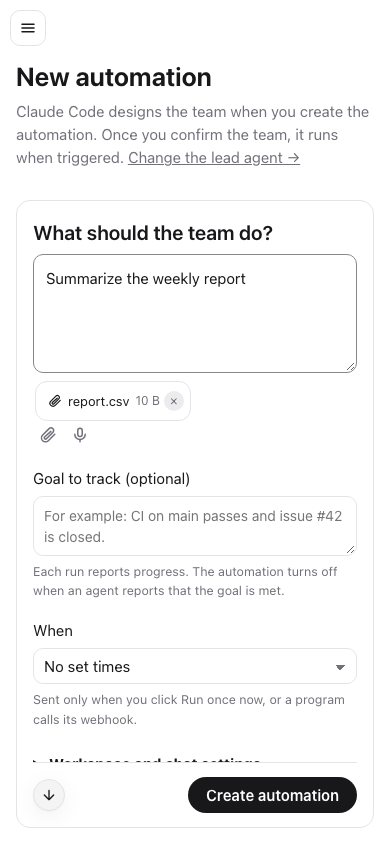
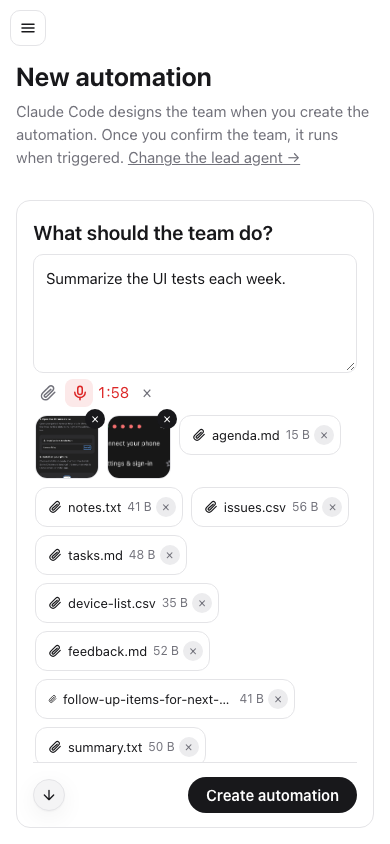
Keep attachment and microphone buttons in place in New chat and New automation (#148)
* Keep attachment and microphone buttons in place when creating a chat or automation

- Show files below the controls and keep the microphone in its original slot through recording and transcription.
- Measure both buttons on desktop and phone layouts and check the voice installation badge in all three inputs.
- Refresh the English and Traditional Chinese guides, screenshots and end-to-end test descriptions.

* Show both creation forms with ten attachments and a nearly full recording

- Capture the desktop and phone layouts after 118 seconds of recording with ten files, including image thumbnails.
- Update the guides to describe attachment wrapping and automatic transcription at the two-minute limit.

diff --git a/e2e/specs/voice.spec.ts b/e2e/specs/voice.spec.ts
@@ -1,6 +1,8 @@
-import type { Page } from '@playwright/test';
+import type { Locator, Page } from '@playwright/test';
 import type { VoiceJobView, VoiceStatus } from '../../src/shared/types';
 import { expect, test } from '../fixtures';
+import { en } from '../../src/web/locales/en';
+import { syntheticMicrophone } from '../support/voice';
 import { openTeamChat } from '../support/app';
 
 const MB = 1024 * 1024;
@@ -83,14 +85,22 @@ test.describe("voice input's install", () => {
     // While it runs, the app's loader (the Logo turning) beside its state; and in a chat, at the
     // microphone's top right, 12px.
     await expect(page.locator('.voice-job .login-state .logo-spinner')).toBeVisible();
+    const expectBadgeOnMic = async (mic: Locator) => {
+      const badge = mic.locator('.mic-badge .logo-spinner');
+      await expect(badge).toBeVisible();
+      const box = (await badge.boundingBox())!;
+      const button = (await mic.boundingBox())!;
+      expect(box.width).toBeCloseTo(12, 0);
+      expect(box.x + box.width).toBeCloseTo(button.x + button.width - 2, 0);
+      expect(box.y).toBeCloseTo(button.y + 2, 0);
+    };
+    for (const name of ['New chat', 'New automation']) {
+      await page.getByRole('button', { name, exact: true }).first().click();
+      await expect(page.getByRole('heading', { name, exact: true })).toBeVisible();
+      await expectBadgeOnMic(page.locator('.first-input .mic-button'));
+    }
     await openTeamChat(page, relay, [{ name: 'Claude', provider: 'claude' }]);
-    const badge = page.locator('.composer .mic-button .mic-badge .logo-spinner');
-    await expect(badge).toBeVisible();
-    const box = (await badge.boundingBox())!;
-    const mic = (await page.locator('.composer .mic-button').boundingBox())!;
-    expect(box.width).toBeCloseTo(12, 0);
-    expect(box.x + box.width).toBeCloseTo(mic.x + mic.width - 2, 0);
-    expect(box.y).toBeCloseTo(mic.y + 2, 0);
+    await expectBadgeOnMic(page.locator('.composer .mic-button'));
   });
 
   test('says which step stopped a failed install', async ({ page, relay }) => {
@@ -136,3 +146,62 @@ test('leaving New chat releases a microphone granted after navigation', async ({
   await page.evaluate(() => document.dispatchEvent(new Event('grant-test-microphone')));
   await expect.poll(trackState).toBe('ended');
 });
+
+for (const name of ['New chat', 'New automation']) {
+  test(name + ' keeps the attachment and microphone buttons in place', async ({ page, relay }) => {
+    await syntheticMicrophone(page, await relay.api<VoiceStatus>('/api/voice'));
+    await page.getByRole('button', { name, exact: true }).first().click();
+    const attach = page.getByRole('button', { name: en.composer.attach });
+    const mic = page.getByRole('button', { name: en.voice.start, exact: true });
+    const stop = page.getByRole('button', { name: en.voice.stop, exact: true });
+    const cancel = page.getByRole('button', { name: en.voice.cancel });
+    for (const width of [1280, 390]) {
+      await page.setViewportSize({ width, height: 844 });
+      await expect(mic).toBeInViewport();
+      const attachBox = await attach.boundingBox();
+      const micBox = (await mic.boundingBox())!;
+      const picker = page.waitForEvent('filechooser');
+      await attach.click();
+      const files = ['weekly-report.txt', 'release-notes.txt', 'meeting-agenda.txt', 'review-checklist.txt'];
+      await (await picker).setFiles(files.map((name) => ({ name, mimeType: 'text/plain', buffer: Buffer.from('draft') })));
+      await expect(page.getByRole('button', { name: en.composer.removeFile(files[0]!) })).toBeVisible();
+      expect(await attach.boundingBox()).toEqual(attachBox);
+      expect(await mic.boundingBox()).toEqual(micBox);
+
+      await mic.click();
+      await expect(stop).toBeVisible();
+      expect(await stop.boundingBox()).toEqual(micBox);
+      expect(await attach.boundingBox()).toEqual(attachBox);
+      await expect(cancel).toBeInViewport();
+      if (width === 1280) {
+        await cancel.click();
+      } else {
+        // Hold the response so we can measure the busy button before the transcript arrives.
+        let release!: () => void;
+        const held = new Promise<void>((resolve) => {
+          release = resolve;
+        });
+        await page.route('**/api/voice/transcribe', async (route) => {
+          await held;
+          await route.fulfill({ json: { text: 'Review the files' } });
+        });
+        await expect(page.getByRole('timer')).toHaveText(/0:0[1-9]/);
+        await stop.click();
+        try {
+          const busy = page.getByRole('button', { name: en.voice.transcribing });
+          await expect(busy).toBeDisabled();
+          expect(await busy.boundingBox()).toEqual(micBox);
+          expect(await attach.boundingBox()).toEqual(attachBox);
+        } finally {
+          release();
+        }
+        await expect(page.locator('.task-input')).toHaveValue('Review the files');
+      }
+      await expect(mic).toBeVisible();
+      expect(await mic.boundingBox()).toEqual(micBox);
+      for (const file of files) await page.getByRole('button', { name: en.composer.removeFile(file) }).click();
+      expect(await attach.boundingBox()).toEqual(attachBox);
+      expect(await mic.boundingBox()).toEqual(micBox);
+    }
+  });
+}

diff --git a/src/web/components/VoiceInput.tsx b/src/web/components/VoiceInput.tsx
@@ -18,7 +18,15 @@ type RecState = 'idle' | 'starting' | 'recording' | 'transcribing';
  * The composer's microphone. Before voice input is set up it explains what gets installed and starts
  * the install; once it is ready, press to record, press again to turn the recording into text.
  */
-export function VoiceButton({ onText, onError }: { onText: (text: string) => void; onError: (message: string) => void }) {
+export function VoiceButton({
+  onText,
+  onError,
+  fixedButton = false,
+}: {
+  onText: (text: string) => void;
+  onError: (message: string) => void;
+  fixedButton?: boolean;
+}) {
   const t = useT();
   const { status, setStatus, refresh } = useVoiceStatus();
   const [rec, setRec] = useState<RecState>('idle');
@@ -148,34 +156,48 @@ export function VoiceButton({ onText, onError }: { onText: (text: string) => voi
           ? t.voice.start
           : t.voice.setup;
 
+  const recording = rec === 'recording';
+  const cancelButton = (
+    <button type="button" className="icon-button" onClick={cancel} aria-label={t.voice.cancel} title={t.voice.cancel}>
+      ×
+    </button>
+  );
+  if (recording && !fixedButton) {
+    return (
+      <span className="voice-recording">
+        {cancelButton}
+        <button type="button" className="voice-stop" onClick={onClick} aria-label={t.voice.stop} title={t.voice.recordingHint}>
+          <span className="rec-dot" aria-hidden="true" />
+          {formatClock(seconds)}
+        </button>
+      </span>
+    );
+  }
+
   return (
     <>
-      {rec === 'recording' ? (
-        <span className="voice-recording">
-          <button type="button" className="icon-button" onClick={cancel} aria-label={t.voice.cancel} title={t.voice.cancel}>
-            ×
-          </button>
-          <button type="button" className="voice-stop" onClick={onClick} aria-label={t.voice.stop} title={t.voice.recordingHint}>
-            <span className="rec-dot" aria-hidden="true" />
+      <button
+        type="button"
+        className={`icon-button mic-button ${recording ? 'recording' : mode}`}
+        onClick={onClick}
+        disabled={rec === 'starting' || rec === 'transcribing'}
+        aria-label={recording ? t.voice.stop : label}
+        title={recording ? t.voice.recordingHint : label}
+      >
+        {rec === 'idle' || recording ? <MicIcon /> : <LogoSpinner size={16} />}
+        {mode === 'installing' && (
+          <span className="mic-badge" aria-hidden="true">
+            <LogoSpinner size={12} />
+          </span>
+        )}
+      </button>
+      {recording && (
+        <>
+          <span role="timer" className="recording-time">
             {formatClock(seconds)}
-          </button>
-        </span>
-      ) : (
-        <button
-          type="button"
-          className={`icon-button mic-button ${mode}`}
-          onClick={onClick}
-          disabled={rec !== 'idle'}
-          aria-label={label}
-          title={label}
-        >
-          {rec === 'idle' ? <MicIcon /> : <LogoSpinner size={16} />}
-          {mode === 'installing' && (
-            <span className="mic-badge" aria-hidden="true">
-              <LogoSpinner size={12} />
-            </span>
-          )}
-        </button>
+          </span>
+          {cancelButton}
+        </>
       )}
       {dialog && <VoiceSetupDialog status={status} onStatus={setStatus} onClose={() => setDialog(false)} />}
     </>

diff --git a/src/web/components/TaskInput.tsx b/src/web/components/TaskInput.tsx
@@ -11,13 +11,13 @@ interface Props {
   onFiles: (files: PendingFile[]) => void;
   saved?: SavedFiles;
   disabled?: boolean;
-  className?: string;
+  creation?: boolean;
   placeholder?: string;
   maxLength?: number;
 }
 
 /** The required question for a new chat or the message an automation will send. */
-export function TaskInput({ id, text, onText, files, onFiles, saved, disabled, ...textarea }: Props) {
+export function TaskInput({ id, text, onText, files, onFiles, saved, disabled, creation, ...textarea }: Props) {
   const ref = useRef<HTMLTextAreaElement>(null);
   const [notice, setNotice] = useState('');
   const { addFiles, removeFile, onPaste, dragging, dropZone } = useMessageFiles(files, onFiles, setNotice, saved?.files.length);
@@ -32,14 +32,26 @@ export function TaskInput({ id, text, onText, files, onFiles, saved, disabled, .
       field.setSelectionRange(next.caret, next.caret);
     });
   };
+  const tray = <AttachmentTray files={files} removeFile={removeFile} saved={saved} />;
   return (
     <fieldset disabled={disabled} className={dragging ? 'first-input dragging' : 'first-input'} {...(disabled ? {} : dropZone)}>
-      <textarea {...textarea} id={id} ref={ref} required rows={4} value={text} onChange={(e) => onText(e.target.value)} onPaste={onPaste} />
-      <AttachmentTray files={files} removeFile={removeFile} saved={saved} />
+      <textarea
+        {...textarea}
+        className={creation ? 'task-input' : undefined}
+        id={id}
+        ref={ref}
+        required
+        rows={4}
+        value={text}
+        onChange={(e) => onText(e.target.value)}
+        onPaste={onPaste}
+      />
+      {!creation && tray}
       <div className="first-input-tools">
         <AttachmentPicker addFiles={addFiles} />
-        <VoiceButton onError={setNotice} onText={insertVoice} />
+        <VoiceButton fixedButton={creation} onError={setNotice} onText={insertVoice} />
       </div>
+      {creation && tray}
       {notice && (
         <p role="alert" className="error-line">
           {notice}

diff --git a/e2e/specs/schedule.spec.ts b/e2e/specs/schedule.spec.ts
@@ -1,28 +1,11 @@
 import { mkdirSync, utimesSync, writeFileSync } from 'node:fs';
 import { createServer } from 'node:net';
 import { join } from 'node:path';
-import type { Page } from '@playwright/test';
 import { expect, test } from '../fixtures';
 import type { Conversation, VoiceStatus } from '../../src/shared/types';
 import { en } from '../../src/web/locales/en';
 import { confirmTeam, finishedReply, openTeamChat, send } from '../support/app';
-
-/** A tone stands in for a microphone so the browser records without a physical device. */
-async function syntheticMicrophone(page: Page, status: VoiceStatus) {
-  await page.evaluate(() => {
-    navigator.mediaDevices.getUserMedia = async () => {
-      const ctx = new AudioContext();
-      const tone = ctx.createOscillator();
-      const dest = ctx.createMediaStreamDestination();
-      tone.connect(dest);
-      tone.start();
-      await ctx.resume();
-      return dest.stream;
-    };
-  });
-  await page.route('**/api/voice', (route) => route.fulfill({ json: { ...status, ready: true } }));
-  await page.route('**/api/voice/prepare', (route) => route.fulfill({ json: { ok: true } }));
-}
+import { syntheticMicrophone } from '../support/voice';
 
 test.describe('schedules', () => {
   test("a chat's schedule is saved, and running it once sends its message to the team", async ({ page, relay }) => {
@@ -297,7 +280,7 @@ test.describe('schedules', () => {
     await task.fill('Summarize');
     await mic.click();
     const stop = page.getByRole('button', { name: en.voice.stop });
-    await expect(stop).toHaveText(/0:0[1-9]/);
+    await expect(page.getByRole('timer')).toHaveText(/0:0[1-9]/);
     await stop.click();
     await expect(task).toHaveValue('Summarize merged pull requests');
     await goal.fill('All changes reviewed');

diff --git a/e2e/support/voice.ts b/e2e/support/voice.ts
@@ -1,0 +1,19 @@
+import type { Page } from '@playwright/test';
+import type { VoiceStatus } from '../../src/shared/types';
+
+/** A tone stands in for a microphone so the browser records without a physical device. */
+export async function syntheticMicrophone(page: Page, status: VoiceStatus) {
+  await page.evaluate(() => {
+    navigator.mediaDevices.getUserMedia = async () => {
+      const ctx = new AudioContext();
+      const tone = ctx.createOscillator();
+      const dest = ctx.createMediaStreamDestination();
+      tone.connect(dest);
+      tone.start();
+      await ctx.resume();
+      return dest.stream;
+    };
+  });
+  await page.route('**/api/voice', (route) => route.fulfill({ json: { ...status, ready: true } }));
+  await page.route('**/api/voice/prepare', (route) => route.fulfill({ json: { ok: true } }));
+}

diff --git a/src/web/styles.css b/src/web/styles.css
@@ -2480,6 +2480,23 @@ details.sub .model-picker {
   display: flex;
   gap: 4px;
 }
+.first-task .first-input-tools {
+  align-items: center;
+}
+.first-input-tools + .attach-tray {
+  margin-top: 6px;
+}
+.first-input-tools .mic-button {
+  position: relative;
+}
+.first-input-tools .mic-button.recording {
+  color: var(--danger);
+  background: color-mix(in srgb, var(--danger) 10%, var(--bg));
+}
+.recording-time {
+  color: var(--danger);
+  font-variant-numeric: tabular-nums;
+}
 .first-input.dragging .task-input {
   outline: 2px dashed var(--text);
 }

diff --git a/src/web/components/ScheduleForm.tsx b/src/web/components/ScheduleForm.tsx
@@ -200,7 +200,7 @@ export function ScheduleForm({
           {creation ? t.newSchedule.task : t.schedule.message}
         </label>
         <TaskInput
-          className={creation ? 'task-input' : undefined}
+          creation={Boolean(creation)}
           id={messageId}
           text={draft.text}
           onText={(text) => onEdit({ text })}

diff --git a/src/web/components/NewChat.tsx b/src/web/components/NewChat.tsx
@@ -175,7 +175,7 @@ export function NewChat({ providers, catalog, draft, onDraft, busy, setBusy, err
       </label>
       <TaskInput
         id="first-question"
-        className="task-input"
+        creation
         text={draft.question}
         onText={(question) => onDraft({ ...draft, question })}
         files={draft.files}

diff --git a/docs/user-guide.md b/docs/user-guide.md
@@ -417,9 +417,9 @@ To browse AgentsView from your phone too, see [Use it from your phone](remote-ac
 
 ## 3. Start a chat — New chat and templates
 
-Click **Start a new chat** on the home page, even with the sidebar closed, or choose **New chat** in the sidebar. Type your question or use the microphone to dictate it. **Send question** becomes available once the field contains text. You can attach files alongside the question. Sending opens the chat and starts team design. Under **Workspace and chat settings**, you can change the working folders, file permission, approval policy and title. The [lead review](#lead-review) checkbox below the team confirmation choices starts checked. **Once the team is ready** shows whether the team will wait for your confirmation or answer right away. The next chat remembers that choice. **Send question** stays at the bottom of the card. The team choices and review setting scroll with the other fields. A down arrow appears when there is more below. Click it to scroll. The question, attachments, title and settings stay in this window while you visit other pages. If creation finishes while you are in Settings, **Open created chat** opens the result. If it fails, return to the draft to see the error and retry. **Change the lead agent** opens Settings, where **Return to new chat draft** takes you back. Open **Manage team templates** to inspect or edit a template.
+Click **Start a new chat** on the home page, even with the sidebar closed, or choose **New chat** in the sidebar. Type your question or use the microphone to dictate it. **Send question** becomes available once the field contains text. You can attach up to 10 files. They wrap onto new lines below the paperclip and microphone. While dictating, click the microphone again to transcribe or use the × beside the timer to cancel. At two minutes, the recording ends and transcription starts automatically. Sending opens the chat and starts team design. Under **Workspace and chat settings**, you can change the working folders, file permission, approval policy and title. The [lead review](#lead-review) checkbox below the team confirmation choices starts checked. **Once the team is ready** shows whether the team will wait for your confirmation or answer right away. The next chat remembers that choice. **Send question** stays at the bottom of the card. The team choices and review setting scroll with the other fields. A down arrow appears when there is more below. Click it to scroll. The question, attachments, title and settings stay in this window while you visit other pages. If creation finishes while you are in Settings, **Open created chat** opens the result. If it fails, return to the draft to see the error and retry. **Change the lead agent** opens Settings, where **Return to new chat draft** takes you back. Open **Manage team templates** to inspect or edit a template.
 
-![New chat on a phone with the microphone, attachment picker and disabled Send question button](media/new-chat-en.png)
+![New chat on a phone with 10 attachments below the controls and 1:58 on the recording timer](media/new-chat-en.png)
 
 You don't pick a team for the chat: the lead agent chooses one for each question (see [Auto team](#auto-team)), from the [templates](#templates) on this page, where you design teams.
 
@@ -617,9 +617,9 @@ To have the lead agent make the change, say what you want in **Ask the lead agen
 
 **Automation** in the header sends the team a message as if you had sent it, in this conversation or in a new one each time, whenever something starts it: you (**Run once now**), set times, something that happens (a new mail, an event about to begin, a pull request or a failed CI run on GitHub, a file that appears or changes), or a program that calls its webhook. For example "@Reviewer look at the pull requests merged yesterday and list the risks" every weekday at 09:00, "Triage this mail and draft a reply" when a mail from a customer arrives, or "CI failed: find out why" when CI calls it.
 
-To start from an automation instead of a chat, click **New automation**, the button with a lightning bolt beside **New chat** in the sidebar (its text is **Automation** in English, where the whole name does not fit). Type or dictate what the team should do. You can attach files using the paperclip, paste or drag and drop. Every run gets its own copy, including runs that open a new chat. Add or remove files in the chat’s **Automation** settings to change what future runs receive. Optionally add a **Goal to track**, then choose **When** it runs. Open **Webhooks and run settings** to create a webhook, start a new chat each time, or change unattended and missed-run behavior. **Workspace and chat settings** shows the working directories, permissions and optional title. The [lead review](#lead-review) checkbox is visible below the team confirmation choices. Visiting lead or connector settings keeps your draft while the app is open. If creation finishes there, **Open created automation** opens its chat and any newly created webhook. Above **Once the team is ready**, expand **Manage team templates** to edit the same templates available in New chat. Choose whether to review the team or accept it automatically, then click **Create automation**. Its chat opens for team design. The task runs when triggered. **Create automation** stays at the bottom of the card while the settings above it scroll, including team confirmation and lead review. A time that comes due while the team is being designed or waits for you is tried again for up to 30 minutes, then skipped. If the design was stopped, the automation window offers **Have the lead agent design the team**.
+To start from an automation instead of a chat, click **New automation**, the button with a lightning bolt beside **New chat** in the sidebar (its text is **Automation** in English, where the whole name does not fit). Type or dictate what the team should do. Pick files with the paperclip, paste them or drag them into the field. They appear below the paperclip and microphone. Every run gets its own copy, including runs that open a new chat. Add or remove files in the chat’s **Automation** settings to change what future runs receive. Optionally add a **Goal to track**, then choose **When** it runs. Open **Webhooks and run settings** to create a webhook, start a new chat each time, or change unattended and missed-run behavior. **Workspace and chat settings** shows the working directories, permissions and optional title. The [lead review](#lead-review) checkbox is visible below the team confirmation choices. Visiting lead or connector settings keeps your draft while the app is open. If creation finishes there, **Open created automation** opens its chat and any newly created webhook. Above **Once the team is ready**, expand **Manage team templates** to edit the same templates available in New chat. Choose whether to review the team or accept it automatically, then click **Create automation**. Its chat opens for team design. The task runs when triggered. **Create automation** stays at the bottom of the card while the settings above it scroll, including team confirmation and lead review. A time that comes due while the team is being designed or waits for you is tried again for up to 30 minutes, then skipped. If the design was stopped, the automation window offers **Have the lead agent design the team**.
 
-![New automation with a dictated or typed message and an attached report](media/new-automation-en.png)
+![New automation on a phone with 10 attachments and the microphone recording at 1:58](media/new-automation-en.png)
 
 - **Message** — what to send. As usual, when you @mention members, only they answer; a name that is not on the team reaches nobody (the members the message does @mention answer, or with none, the whole team) — the window warns about it as you type, and **Team settings** warns when you rename or remove a member the message @mentions. With **New automation** there is no team yet: the lead agent names the members after the names the message @mentions (for example `@Reviewer`), and a team's card warns before you confirm it if one is missing (also for a later question's team, in a chat with an automation).
 - **When** — **No set times** (what a new automation starts with): only **Run once now** and the webhook (below) send it, so it has nothing to switch on or off and no missed times — for a task you start yourself now and then, or one a program starts. Or **Once** (a date and time), **Every day** or **Every week** (pick the days) at a time, or **Every few hours** (counted from when you set its times; changing only the message keeps the rhythm). On the creation page, choose a trigger from the **When** menu. In the chat drawer the choices share a row you can swipe on a phone. The next three times and the time zone are shown before you save; times are in the automation's time zone, and on a device in another zone you can switch it to that device's. Or **When something happens**, under **What to wait for**: **A new mail arrives** in a mail account from Settings → Tool library (a folder, the inbox by default, and optionally words the sender and the subject contain, in any case). Harness Relay checks it itself every 2 minutes, with no address or token to set up, and when the mail server can say at once that mail arrived (IMAP IDLE: Gmail, iCloud and most can), it listens and checks right then, so a mail starts it within seconds (the automation window then says the server tells it when mail arrives); the first check only notes the mail already there, and mail that arrives after it starts the automation, once for each check however many came, with their senders, subjects, dates and first lines in a block the chat shows as **The new mail** and the agents read as data (members with the Mail tools can read a mail whole). Mail that came while Harness Relay was closed is found at its first check after it opens; old mail moved into the folder (from an archive, say) does not count as new. While the automation is off, nothing is checked, and turning it on starts afresh. While the team replies, the message waits in the queue as any automation's does; when the team cannot take it at all (it waits for your answer, an earlier automation message is still queued, another chat writes in the folder), the mail waits for a later check, which sends it with what came since. **Check now** in the automation window checks at once and says what it found; while the automation is off, it only notes the mail there (to try the account), and starts no run. The other things it can wait for, checked the same way (the first check only notes what is there, and one check starts one run however many it found): **An event is about to begin**, in a calendar from Settings (with a password, or one you signed in to), a number of minutes before each event begins (each time of a recurring one on its own; all-day events, cancelled ones and those in a time zone this computer does not know are left out), optionally only those whose title has some words, the run's message listing each event's title, times, place and attendees; an event that began while the checks failed or the team could not take it (within the hour) is still sent, marked as begun. A CalDAV server that does not expand recurring events gives Harness Relay their first time only, so their later times do not start the automation. **A pull request or a failed CI run on GitHub**, in a repository (`owner/name`), through your own GitHub CLI (`gh`, signed in with `gh auth login`): a pull request opened, or a CI run that failed, timed out or could not start (optionally on one branch; a run that fails again when re-run counts too), listed by number or run, title and link. And **A file appears or changes in the working directory**, a pattern such as `reports/*.csv` (`*` within a folder, `**` across folders, `?` one character, any case; `.git` is left out, and so are package and build folders such as `node_modules` unless the pattern names them), the run's message listing each file's path, size and time, never its contents; a file is listed once it has not changed for 30 seconds, so one still being written starts it once. Files changed while the team works in the folder count as the team's own: they never start the automation again (nor does what another chat writes there meanwhile); a file a check found before the team started, or one that came while the automation waited for the team (for your answer, say), is still sent afterwards. Only the working directory it watches counts, not the conversation's other ones (unless they are in the same git repository). Files a run wrote just before Harness Relay stopped are not told apart: the first check after it starts may list them. A run that wrote in the folder between two checks (even a short one you started) makes the next check only record too, so a file of yours that arrived in the same couple of minutes counts as the team's. In a large folder, give the pattern the folder to look in (`reports/*.csv` rather than `**/*.csv`). To wait for more than one thing (a new mail from the bank, or a file in `invoices/`), click **Add another** under them (up to 5; **Remove** takes one away): any of them starts the automation. Each is checked on its own, and each that finds something sends the message with what it found, so two at once make two messages (the second waits in the queue); the same thing twice (the same mail folder, the inbox in any letter case included, the same pattern) cannot be saved. The automation window then shows how each one's checks go, a line each, and the sidebar says them all, joined with "or". When a check fails (a wrong password, a server down, gh not signed in), the automation says why, the clock in the sidebar shows it, and the checks come slower until one works.

diff --git a/e2e/README.md b/e2e/README.md
@@ -6,7 +6,7 @@ What the end-to-end tests (`npm run test:e2e`) try today, area by area. They dri
 
 How they work, how to run one and how to write one is in the developer guide, [End-to-end tests](../docs/developer-guide.md#end-to-end-tests). This page is the list of scenarios: when you add, change or remove an end-to-end test, change this page and [its Chinese copy](README.zh-TW.md) in the same commit ([AGENTS.md](../AGENTS.md), "Documentation").
 
-There are 517 tests in 39 spec files, in each browser that runs them (Chromium by default). Some run only on some systems, or only where Harness Relay's own sandbox works: see [Platforms and browsers](#platforms-and-browsers).
+There are 519 tests in 39 spec files, in each browser that runs them (Chromium by default). Some run only on some systems, or only where Harness Relay's own sandbox works: see [Platforms and browsers](#platforms-and-browsers).
 
 ## Running them
 
@@ -67,7 +67,7 @@ In the tables below, the CLI column says which CLIs a test runs with: **each** m
 | [Plan usage](#plan-usage) | [`usage.spec.ts`](specs/usage.spec.ts) | 9 | [User guide → Plan usage](../docs/user-guide.md#plan-usage), [Architecture → Providers](../docs/architecture.md#providers-status-login-and-models) |
 | [What each CLI loads by itself, and Grok's trust](#what-each-cli-loads-by-itself-and-groks-trust) | [`native.spec.ts`](specs/native.spec.ts) | 5 | [User guide → What each CLI loads by itself](../docs/user-guide.md#what-each-cli-loads-by-itself), [Architecture → What each CLI loads by itself](../docs/architecture.md#what-each-cli-loads-by-itself) |
 | [Agent sessions and AgentsView](#agent-sessions-and-agentsview) | [`sessions.spec.ts`](specs/sessions.spec.ts) | 10 | [User guide → Agent sessions](../docs/user-guide.md#agent-sessions-the-clis-own-folder-and-agentsview), [Architecture → Agent homes and AgentsView](../docs/architecture.md#agent-homes-and-agentsview) |
-| [Voice input's install](#voice-inputs-install) | [`voice.spec.ts`](specs/voice.spec.ts) | 3 | [User guide → Voice input](../docs/user-guide.md#voice-input), [Architecture → Voice input](../docs/architecture.md#voice-input) |
+| [Voice input's install](#voice-inputs-install) | [`voice.spec.ts`](specs/voice.spec.ts) | 5 | [User guide → Voice input](../docs/user-guide.md#voice-input), [Architecture → Voice input](../docs/architecture.md#voice-input) |
 | [Reporting a problem](#reporting-a-problem) | [`report.spec.ts`](specs/report.spec.ts) | 7 | [User guide → Reporting a problem](../docs/user-guide.md#reporting-a-problem), [Architecture → Reporting a problem](../docs/architecture.md#reporting-a-problem) |
 | [The guided tour and the theme](#the-guided-tour-and-the-theme) | [`appearance.spec.ts`](specs/appearance.spec.ts) | 10 | [User guide → Language and the guided tour](../docs/user-guide.md#language-and-the-guided-tour) |
 | [Notifications and sound](#notifications-and-sound) | [`notifications.spec.ts`](specs/notifications.spec.ts) | 6 | [User guide → Notifications and sound](../docs/user-guide.md#notifications-and-sound), [Notification inbox](../docs/user-guide.md#notification-inbox), [Architecture → Notifications](../docs/architecture.md#notifications) |
@@ -548,8 +548,9 @@ In the tables below, the CLI column says which CLIs a test runs with: **each** m
 
 | Scenario | What is checked |
 | --- | --- |
+| New chat and New automation keep the attachment and microphone buttons in place (one test each) | On desktop and phone widths, compare both buttons’ positions and sizes before and after selecting multiple files, while recording, after cancellation, during transcription and after removing the files. |
 | Leaving New chat before microphone permission is granted | Granting the synthetic microphone after opening lead settings releases its track. |
-| The install shows its steps in line, says their state to screen readers, and its download in the bar | The steps in a row, the current one marked `aria-current`, the download's percent and the bar's fill; the app's loader beside the install's state, and in a chat at the microphone's top right, 12px. |
+| The install shows its steps in line, says their state to screen readers, and its download in the bar | The steps in a row, the current one marked `aria-current`, the download's percent and the bar's fill; the app's loader beside the install's state, and at the microphone's top right (12px) in New chat, New automation and the chat composer. |
 | A failed install says which step stopped | The step it stopped at is shown as failed. |
 
 ## The guided tour and the theme
